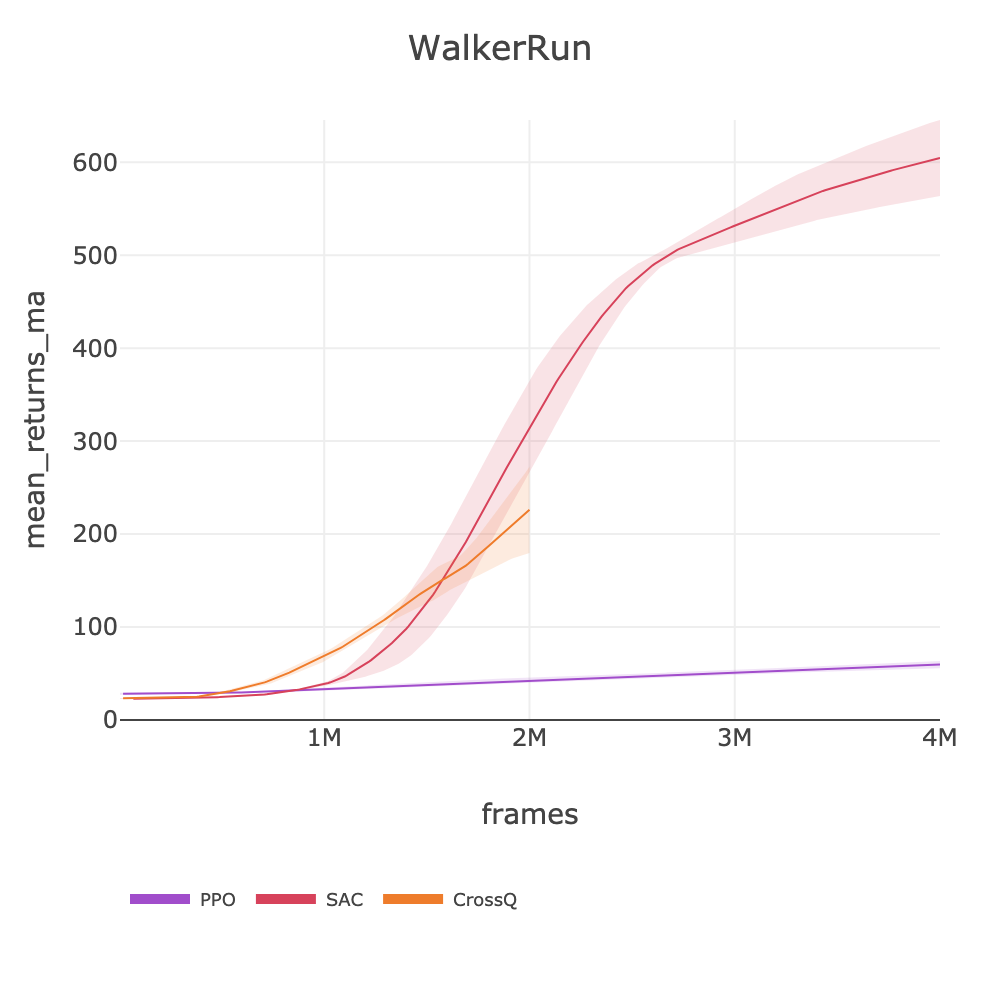
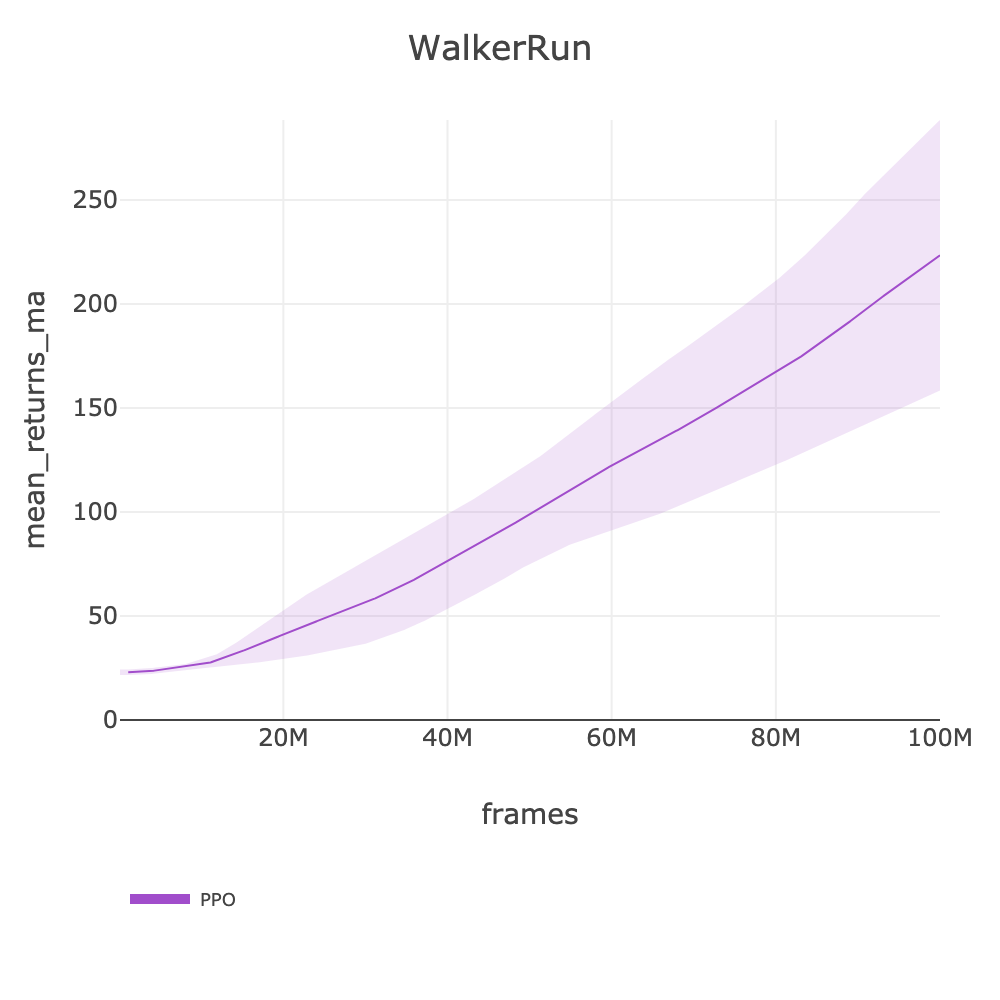
feat: intake BallInCup 718.66, WalkerRun 223.46, FingerTurnHard 415.89

diff --git a/docs/BENCHMARKS.md b/docs/BENCHMARKS.md
@@ -897,7 +897,7 @@ source .env && uv run slm-lab run-remote --gpu \
 | playground/AcrobotSwingupSparse | PPO | 🔄 | - | ppo_playground | - | 20 | - | - | - |
 | | CrossQ | 🔄 | - | crossq_playground | - | | - | - | - |
 | | SAC | 🔄 | - | sac_playground_hard | - | | - | - | - |
-| playground/BallInCup | PPO | 🔄 | - | ppo_playground | - | 950 | - | - | - |
+| playground/BallInCup | PPO | ✅ | 718.66 | ppo_playground | [ppo_playground_ballincup_2026_03_11_124251](https://huggingface.co/datasets/SLM-Lab/benchmark-dev/tree/main/data/ppo_playground_ballincup_2026_03_11_124251) | 950 | 15140 | 100M | 1h 50m |
 | | CrossQ | 🔄 | - | crossq_playground | - | | - | - | - |
 | | SAC | 🔄 | - | sac_playground | - | | - | - | - |
 | playground/CartpoleBalance | PPO | ✅ | 876.30 | ppo_playground | [ppo_playground_cartpolebalance_2026_03_11_095201](https://huggingface.co/datasets/SLM-Lab/benchmark-dev/tree/main/data/ppo_playground_cartpolebalance_2026_03_11_095201) | 1000 | 12130 | 100M | 2h 17m |
@@ -918,10 +918,10 @@ source .env && uv run slm-lab run-remote --gpu \
 | playground/FingerSpin | PPO | ✅ | 662.74 | ppo_playground | [ppo_playground_fingerspin_2026_03_11_100649](https://huggingface.co/datasets/SLM-Lab/benchmark-dev/tree/main/data/ppo_playground_fingerspin_2026_03_11_100649) | 750 | 13890 | 100M | 1h 59m |
 | | CrossQ | 🔄 | - | crossq_playground | - | | - | - | - |
 | | SAC | 🔄 | - | sac_playground | - | | - | - | - |
-| playground/FingerTurnEasy | PPO | 🔄 | - | ppo_playground | - | 950 | - | - | - |
+| playground/FingerTurnEasy | PPO | ✅ | 528.73 | ppo_playground | [ppo_playground_fingerturneasy_2026_03_11_123957](https://huggingface.co/datasets/SLM-Lab/benchmark-dev/tree/main/data/ppo_playground_fingerturneasy_2026_03_11_123957) | 950 | 10590 | 100M | 2h 37m |
 | | CrossQ | 🔄 | - | crossq_playground | - | | - | - | - |
 | | SAC | 🔄 | - | sac_playground | - | | - | - | - |
-| playground/FingerTurnHard | PPO | 🔄 | - | ppo_playground | - | 950 | - | - | - |
+| playground/FingerTurnHard | PPO | ✅ | 415.89 | ppo_playground | [ppo_playground_fingerturnhard_2026_03_11_124037](https://huggingface.co/datasets/SLM-Lab/benchmark-dev/tree/main/data/ppo_playground_fingerturnhard_2026_03_11_124037) | 950 | 12400 | 100M | 2h 15m |
 | | CrossQ | 🔄 | - | crossq_playground | - | | - | - | - |
 | | SAC | 🔄 | - | sac_playground | - | | - | - | - |
 | playground/FishSwim | PPO | 🔄 | - | ppo_playground | - | 600 | - | - | - |
@@ -957,7 +957,7 @@ source .env && uv run slm-lab run-remote --gpu \
 | playground/SwimmerSwimmer6 | PPO | 🔄 | - | ppo_playground | - | 550 | - | - | - |
 | | CrossQ | 🔄 | - | crossq_playground | - | | - | - | - |
 | | SAC | 🔄 | - | sac_playground | - | | - | - | - |
-| playground/WalkerRun | PPO | 🔄 | - | ppo_playground | - | 700 | - | - | - |
+| playground/WalkerRun | PPO | ✅ | 223.46 | ppo_playground | [ppo_playground_walkerrun_2026_03_11_123928](https://huggingface.co/datasets/SLM-Lab/benchmark-dev/tree/main/data/ppo_playground_walkerrun_2026_03_11_123928) | 700 | 12560 | 100M | 2h 13m |
 | | CrossQ | 🔄 | - | crossq_playground | - | | - | - | - |
 | | SAC | 🔄 | - | sac_playground | - | | - | - | - |
 | playground/WalkerStand | PPO | ✅ | 781.26 | ppo_playground | [ppo_playground_walkerstand_2026_03_11_100507](https://huggingface.co/datasets/SLM-Lab/benchmark-dev/tree/main/data/ppo_playground_walkerstand_2026_03_11_100507) | 1000 | 10170 | 100M | 2h 44m |
